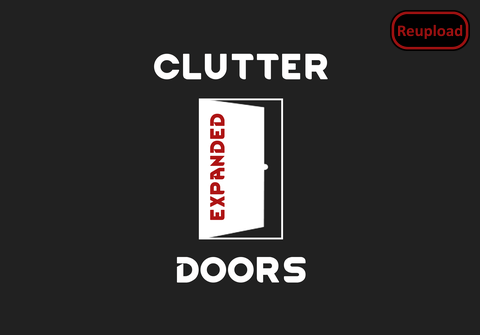
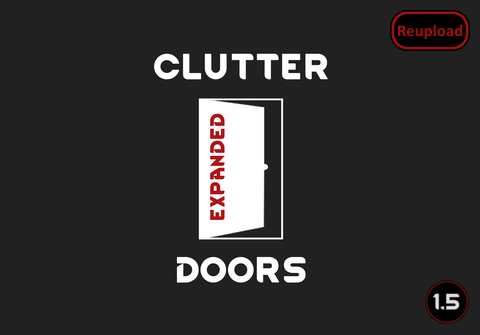
Mod updated for 1.5 and passed autotests

Changed region(s): [[0.875, 0.8358, 1.0, 0.9851]]

diff --git a/README.md b/README.md
@@ -42,10 +42,13 @@ It also serves as an addon by changing the doors from following mods to be visua
 
 -  See if the the error persists if you just have this mod and its requirements active.
 -  If not, try adding your other mods until it happens again.
--  Post your error-log using https://steamcommunity.com/workshop/filedetails/?id=818773962]HugsLib and command Ctrl+F12
+-  Post your error-log using https://steamcommunity.com/workshop/filedetails/?id=818773962]HugsLib or the standalone https://steamcommunity.com/sharedfiles/filedetails/?id=2873415404]Uploader and command Ctrl+F12
 -  For best support, please use the Discord-channel for error-reporting.
 -  Do not report errors by making a discussion-thread, I get no notification of that.
 -  If you have the solution for a problem, please post it to the GitHub repository.
+-  Use https://github.com/RimSort/RimSort/releases/latest]RimSort to sort your mods
 
 
+
+https://steamcommunity.com/sharedfiles/filedetails/changelog/2678597932]![Image](https://img.shields.io/github/v/release/emipa606/ClutterDoors?label=latest%20version&style=plastic&color=9f1111&labelColor=black)
 
